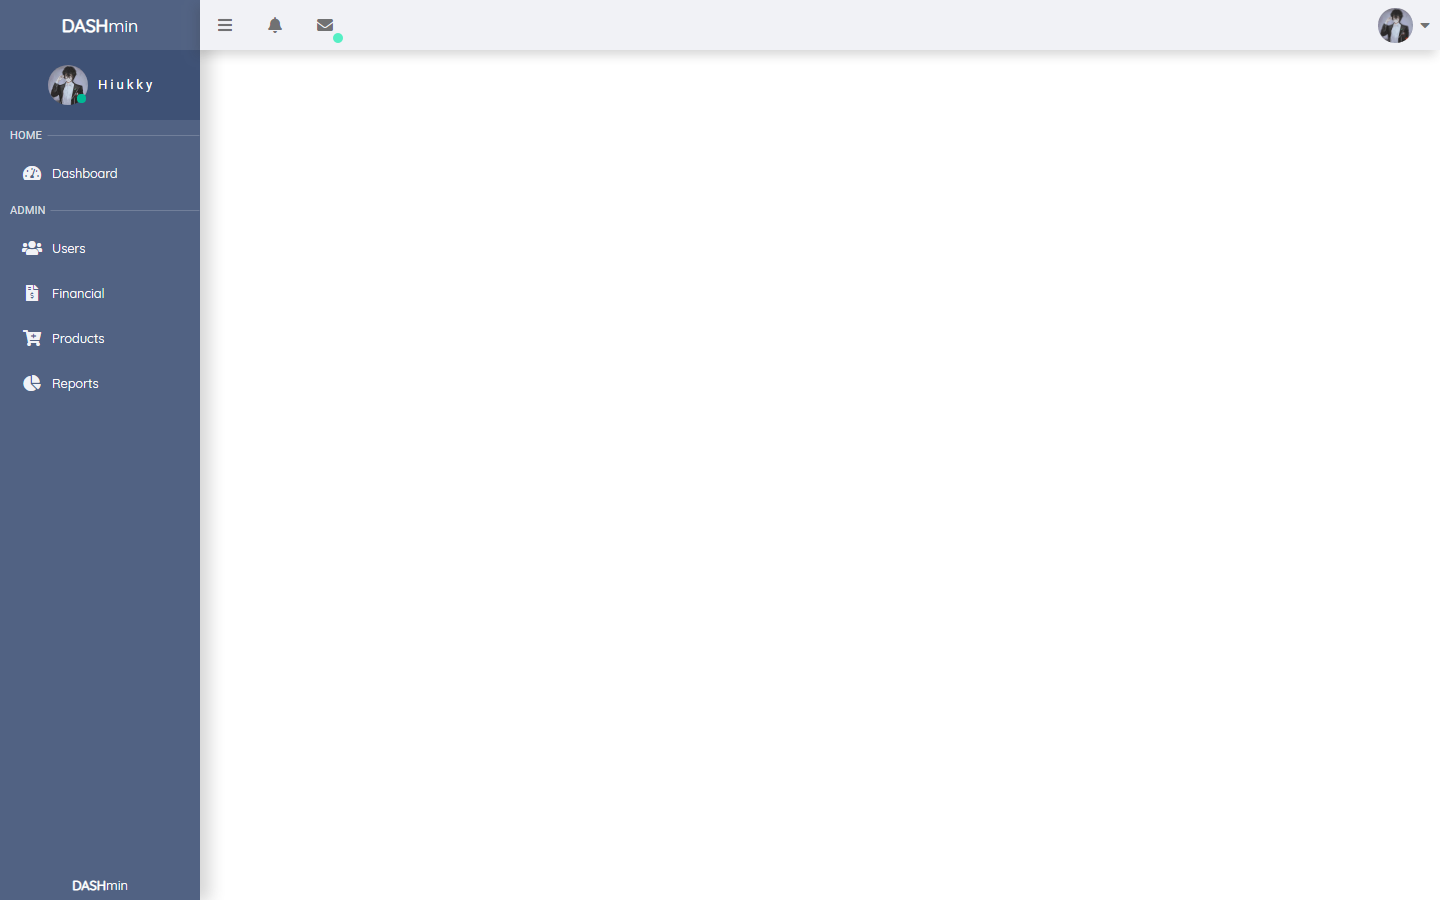
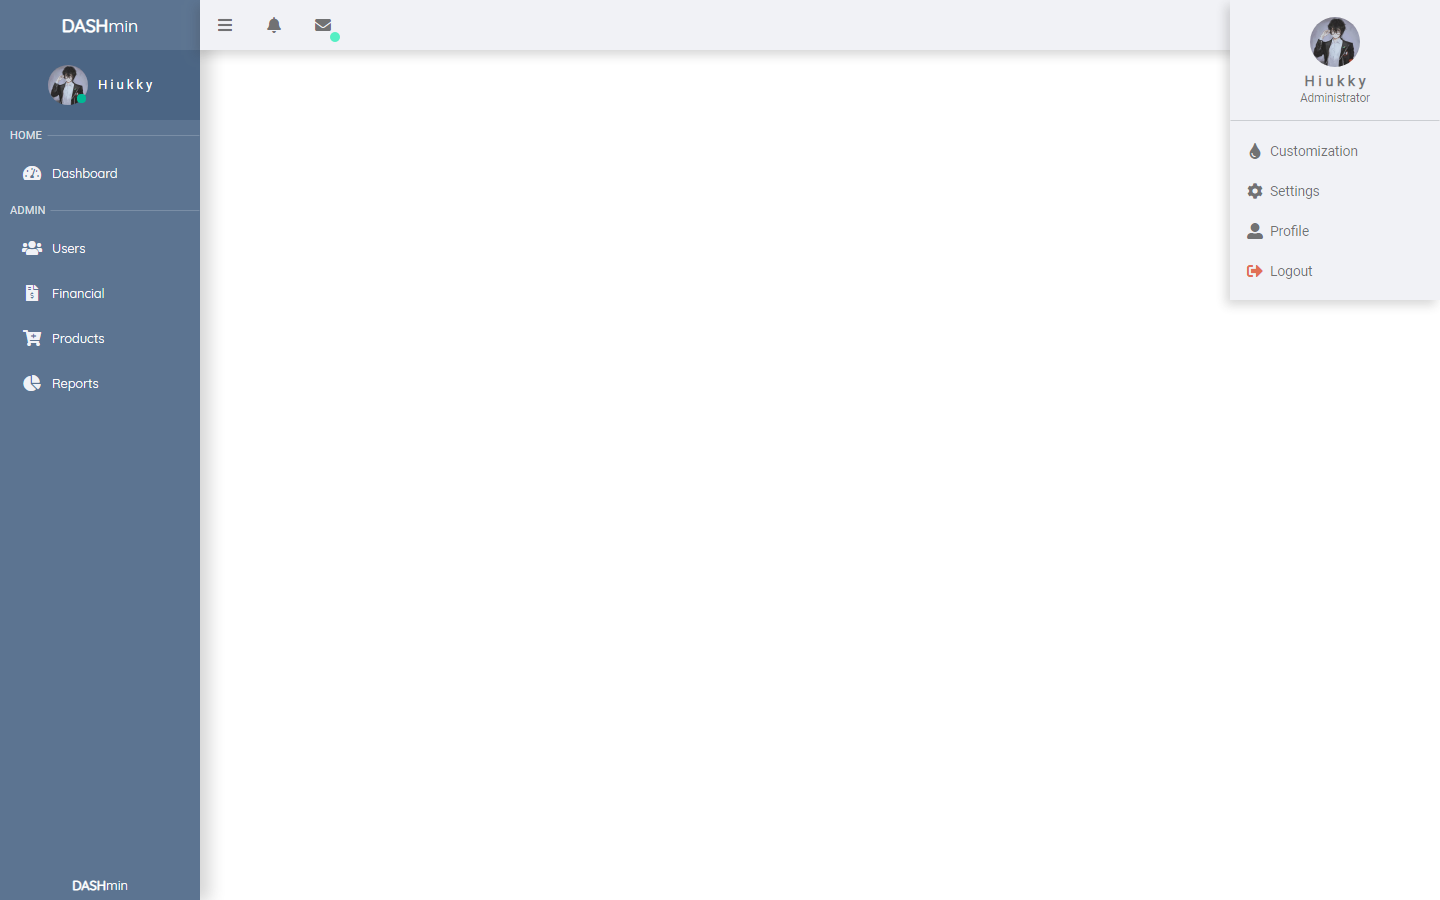
Improvements and some fixes
- I moved the main components of DASHmin to the "main" folder in (components / main), and created a new directory for customizable components!
I believe I would avoid future conflicts when there are updates!

- Layout fixes

Changed region(s): [[0.9062, 0.0, 1.0, 0.1244], [0.8438, 0.2489, 1.0, 0.3422], [0.8438, 0.1556, 0.9375, 0.2178]]

diff --git a/src/components/main/Navbar/fragments/DropDown/index.js b/src/components/main/Navbar/fragments/DropDown/index.js
@@ -16,33 +16,28 @@ export default class DropDown extends Component {
 
             // State
             this.state = {
-                dropClass: 'dropdown--min',
-                toggleIcon: 'btn-up-down fas fa-caret-down'
+                dropdown: 'dropdown--min'
             }
 
             // Paths
             this.paths = {
-                dropMin: () => {
-                    this.setState({dropClass: 'dropdown--min', toggleIcon: 'btn-up-down fas fa-caret-down'})
-                },
-                dropMax: () => {
-                    this.setState({dropClass: 'dropdown', toggleIcon: 'btn-up-down fas fa-caret-up'})
-                }
+                dropMin: () => {this.setState({dropdown: 'dropdown--min'})},
+                dropMax: () => {this.setState({dropdown: 'dropdown'})}
             }
 
             // Methods
-            this.changeDrop = this.changeDrop.bind(this);
-            this.handleClickOutside(this);
+            this.handlerDropdown = this.handlerDropdown.bind(this);
+            this.handlerClickOutside(this);
         }
 
         //Change DropDown
-        changeDrop(){
-            if(this.state.dropClass === 'dropdown--min') this.paths.dropMax();
+        handlerDropdown(){
+            if(this.state.dropdown === 'dropdown--min') this.paths.dropMax();
             else this.paths.dropMin();
         }
 
         // Hide Drop
-        handleClickOutside(){
+        handlerClickOutside(){
             window.addEventListener('click', e => {
                 if(this.setWrapperRef && !this.setWrapperRef.contains(e.target)) this.paths.dropMin();
             });
@@ -51,14 +46,11 @@ export default class DropDown extends Component {
         // render
         render(){
             return (
-                <div className={this.state.dropClass} ref={(node) => this.setWrapperRef = node}>
-                    
-                    {/* Toggle */}
-                    <div className={this.state.toggleIcon} onClick={this.changeDrop}></div>
+                <div className={this.state.dropdown} ref={(node) => this.setWrapperRef = node}>
                     
                     {/* Profile */}
                     <div className="dropdown__profile">
-                        <img className="dropdown__profile__avatar" src={this.props.profileImage} alt=""/>
+                        <img className="dropdown__profile__avatar" src={this.props.profileImage} alt="" onClick={this.handlerDropdown}/>
                         <div className="dropdown__profile__name"> {this.props.profileName} </div>
                         <div className="dropdown__profile__function"> {this.props.profileFunction} </div>
                     </div>

diff --git a/src/store/reducers/dashboard.js b/src/store/reducers/dashboard.js
@@ -1,11 +1,7 @@
 // Initial State
 const INITIAL_STATE = {
     // classes
-    classes: {
-        sidebar: 'sidebar',
-        navbar: 'navbar',
-        content: 'content' 
-    }
+    classes: {sidebar: 'sidebar', navbar: 'navbar', content: 'content'}
 }
 
 // Reducer
@@ -18,36 +14,25 @@ export default function dashboard(state = INITIAL_STATE, action){
             if(window.innerWidth < 576 && action.classes.sidebar === 'sidebar'){
                 return {
                     ...state,
-                    classes: {
-                        sidebar: 'sidebar--mobile',
-                        navbar: 'navbar',
-                        content: 'content' 
-                    }
+                    classes: {sidebar: 'sidebar--mobile', navbar: 'navbar', content: 'content'}
                 }
             }
     
             else if (window.innerWidth > 576 && action.classes.sidebar === 'sidebar'){
                 return {
                     ...state,
-                    classes: {
-                        sidebar: 'sidebar--min',
-                        navbar: 'navbar--min',
-                        content: 'content--min' 
-                    }
+                    classes: {sidebar: 'sidebar--min', navbar: 'navbar--min', content: 'content--min'}
                 }
             }
     
             else {
                 return {
                     ...state,
-                    classes: {
-                        sidebar: 'sidebar',
-                        navbar: 'navbar',
-                        content: 'content' 
-                    }
+                    classes: {sidebar: 'sidebar', navbar: 'navbar', content: 'content'}
                 }
             }
-            
+        
+        // Default
         default:
             return state;
     }

diff --git a/src/components/main/Sidebar/index.scss b/src/components/main/Sidebar/index.scss
@@ -5,7 +5,7 @@
 .sidebar {
     @include initProperties(fixed, calc(100vh -50px), 0);
     top: 50px;
-    background: rgba(62, 81, 117, 1);
+    background: #4b6584;
     transition: .3s;
     box-shadow: 10px 2px 15px rgba(56, 56, 56, 0.2);
     overflow: hidden;
@@ -18,7 +18,7 @@
             @extend %flex-center;
             transition: .3s;
 
-            &-link {
+            &-link, :hover {
                 @include font($quicksand, #fff, 1.1rem);
 
                 strong {
@@ -61,7 +61,6 @@
             @include initProperties(relative, calc(100vh - 200px), 200px);
             overflow: auto;
             transition: .3s;
-            cursor: pointer;
             
             &::-webkit-scrollbar{
                 width: 0;
@@ -102,6 +101,7 @@
                     border-bottom: 0;
                     padding-left: 5px;
                     transition: .3s;
+                    cursor: pointer;
                 }
 
                 .fas{
@@ -186,7 +186,7 @@
                     display: none;
                 }
                 .sidebar__buttons__btn {
-                    @include initProperties(relative, 45px, 45px);
+                    @include initProperties(relative, 50px, 50px);
                     justify-content: center;
                     transition: .3s;
                 }

diff --git a/src/components/main/Navbar/fragments/DropDown/index.scss b/src/components/main/Navbar/fragments/DropDown/index.scss
@@ -3,7 +3,7 @@
 
 // DropDown navbar
 .dropdown {
-    @include initProperties(absolute, 300px, 190px);
+    @include initProperties(absolute, 300px, 210px);
     right: 0;
     top: 0;
     background: #f1f2f6;
@@ -19,7 +19,7 @@
         &__avatar {
             @include initProperties(relative, 50px, 50px);
             border-radius: 50px;
-            transition: .2s;
+            cursor: pointer;
         }
 
         &__name {
@@ -74,9 +74,10 @@
 // Dropdown min
 .dropdown--min {
     @extend .dropdown;
-    @include initProperties(relative, 50px, 70px);
+    @include initProperties(relative, 50px, 50px);
     overflow: hidden;
     box-shadow: none;
+    right: 10px;
 
     // Profile
     .dropdown__profile {
@@ -87,7 +88,6 @@
         &__avatar {
             @include initProperties(relative, 35px, 35px);
             border-radius: 50px;
-            transition: .2s;
         }
         &__name, &__function {
             font-size: 0;
@@ -105,12 +105,4 @@ hr {
     margin: 0;
     border: solid 0.5px rgba(45, 52, 54, 1);
     opacity: 0.1; 
-}
-
-.btn-up-down {
-    position: absolute;
-    right: 10px;
-    top: 17px;
-    cursor: pointer;
-    z-index: 1;
 }

diff --git a/src/containers/Sidebar.js b/src/containers/Sidebar.js
@@ -6,7 +6,7 @@ import {connect} from 'react-redux';
 import SidebarActions from '../store/actions/sidebar';
 
 // Components
-import Sidebar from '../components/Sidebar';
+import Sidebar from '../components/main/Sidebar';
 
 // State and Actions
 const mapStateToProps = state => ({

diff --git a/src/containers/Navbar.js b/src/containers/Navbar.js
@@ -6,7 +6,7 @@ import {connect} from 'react-redux';
 import NavbarActions from '../store/actions/navbar';
 
 // Component
-import Navbar from '../components/Navbar';
+import Navbar from '../components/main/Navbar';
 
 // State e Actions
 const mapStateToProps = state => ({

diff --git a/src/components/custom/custom.js b/src/components/custom/custom.js
@@ -1,0 +1,11 @@
+// Imports
+import React from 'react';
+
+// Content
+const Custom = ({classes}) => (
+    <div className={classes.content}> 
+        {/* Create your custom components ... */} 
+    </div>
+);
+
+export default Custom;

diff --git a/src/containers/Content.js b/src/containers/Content.js
@@ -2,7 +2,7 @@
 import {connect} from 'react-redux';
 
 // Component
-import Content from '../components/Content';
+import Content from '../components/main/Content';
 
 // State and props
 const mapStateToProps = state => ({

diff --git a/src/components/main/Content/index.js b/src/components/main/Content/index.js
@@ -5,7 +5,7 @@ import React from 'react';
 import './index.scss';
 
 // Pages
-import Routes from '../../routes';
+import Routes from '../../../routes';
 
 // Content
 const Content = ({classes}) => (

diff --git a/src/routes/index.js b/src/routes/index.js
@@ -3,7 +3,7 @@ import React from 'react';
 import {Route, Switch} from 'react-router-dom';
 
 // Pages
-import pages from './pages';
+import pages from '../pages';
 
 // Routes
 const Routes = () => (
